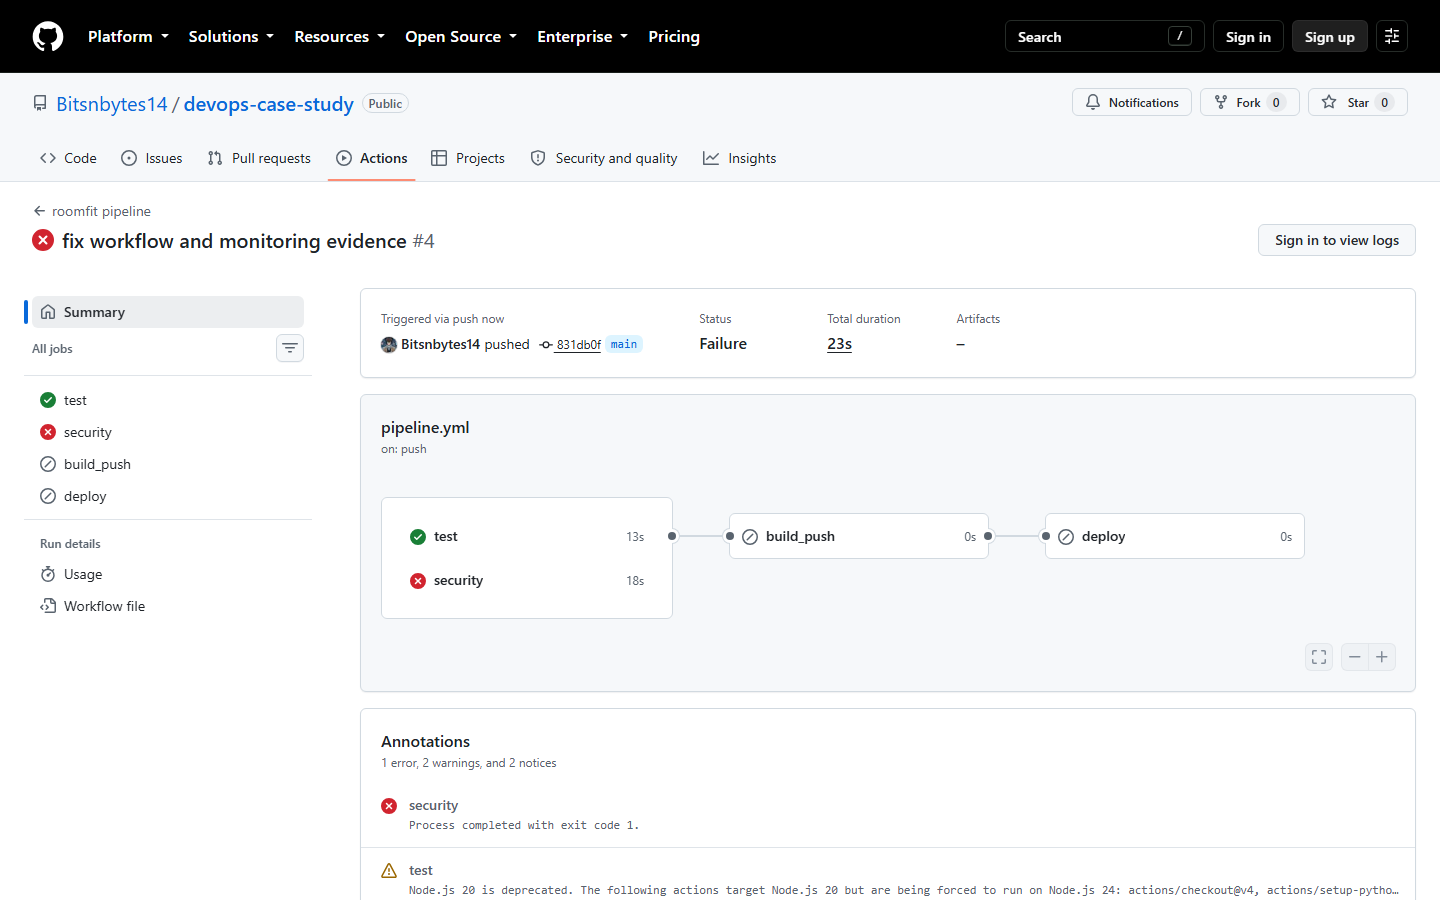
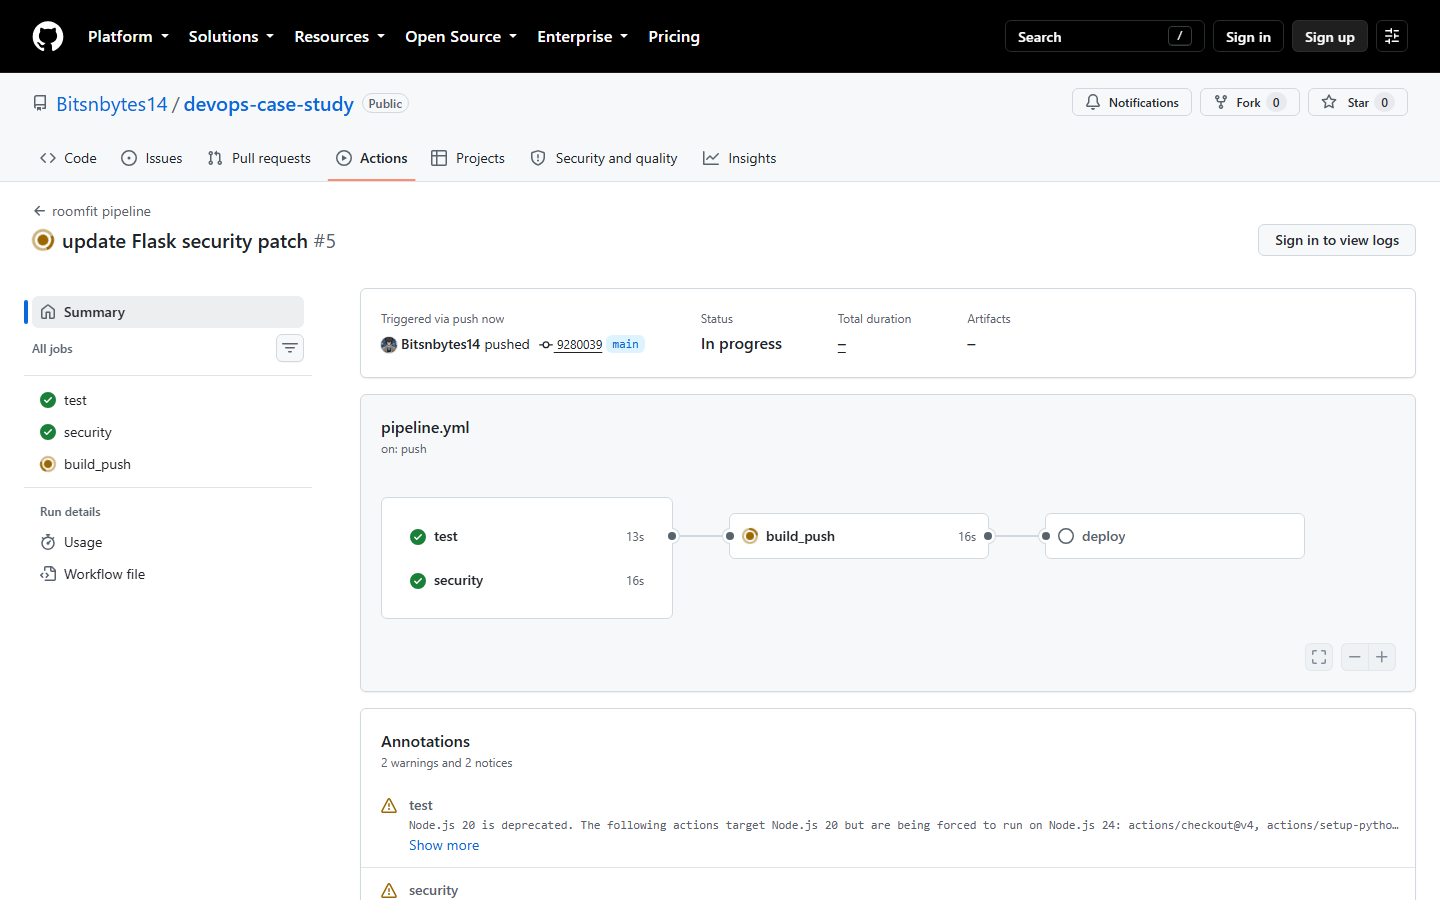
index real screenshot evidence

diff --git a/docs/screenshots/README.md b/docs/screenshots/README.md
@@ -1,12 +1,22 @@
-# Screenshot checklist
+# Screenshot evidence index
 
-Capture real terminal or browser evidence after opening Docker Desktop.
-
-1. Run `wsl -d Ubuntu -u root -- bash -lc "cd /mnt/d/devopscasestudy/devops-case-study/ansible && ansible-playbook -i inventory.ini playbook.yml"` twice. Capture the second recap showing `changed=0`.
-2. Run `wsl -d Ubuntu -u root -- bash -lc "systemctl status roomfit; curl http://127.0.0.1:5000/health"`. Capture the active service and health response.
-3. Run `docker images roomfit-api`, then `docker run` with port 5001. Capture the health and sample responses.
-4. Run `kubectl get pods -n roomfit` and capture the three Ready replicas.
-5. Run `scripts/rolling-update-demo.ps1` and capture the v1, v2, and final v1 health responses.
-6. Run `kubectl rollout history deployment/roomfit -n roomfit` and `kubectl rollout undo deployment/roomfit -n roomfit`.
-7. Open `http://127.0.0.1:30500/health` during v1, v2, and final v1. Open `http://127.0.0.1:30500/metrics` for the metrics page.
-8. Capture a green GitHub Actions run from the repository Actions page.
+| Image | What it shows | Task | Type |
+| --- | --- | --- | --- |
+| `github_actions_green_run.png` | Latest public Actions run page | Pipeline | Browser |
+| `github_actions_workflow_file.png` | Public workflow source page | Pipeline | Browser |
+| `grafana_dashboard_normal.png` | Live RoomFit dashboard during normal traffic | Monitoring | Browser |
+| `grafana_dashboard_chaos.png` | Live RoomFit dashboard during injected faults | Monitoring | Browser |
+| `prometheus_targets.png` | Live Prometheus target status | Monitoring | Browser |
+| `prometheus_alerts.png` | Live Prometheus alert rules | Monitoring | Browser |
+| `service_health_v1.png` | Kind service health reporting v1 | Kubernetes | Browser |
+| `service_health_v2.png` | Kind service health reporting v2 | Kubernetes | Browser |
+| `service_health_after_rollback.png` | Kind service health after rollback reporting v1 | Kubernetes | Browser |
+| `service_metrics.png` | Live Compose service metrics | Monitoring | Browser |
+| `term_ansible_first_run.png` | First Ansible run evidence | Ansible | Terminal render |
+| `term_ansible_second_run_idempotent.png` | Idempotent Ansible recap | Ansible | Terminal render |
+| `term_ansible_service_check.png` | Users, modes, service, and health check | Ansible | Terminal render |
+| `term_docker_images.png` | Docker image build evidence | Docker | Terminal render |
+| `term_k8s_pods_ready.png` | Three Ready Kubernetes replicas | Kubernetes | Terminal render |
+| `term_k8s_rolling_update.png` | Rolling Pod state evidence | Kubernetes | Terminal render |
+| `term_k8s_rollout_history.png` | Deployment revision history | Kubernetes | Terminal render |
+| `term_k8s_rollback.png` | Rollback and v1 health evidence | Kubernetes | Terminal render |

diff --git a/docs/evidence/SUMMARY.md b/docs/evidence/SUMMARY.md
@@ -12,6 +12,12 @@ The first polling file includes connection failures because `kubectl port-forwar
 
 Browser screenshots were not created. The requested real terminal evidence is present. Use the commands in the screenshot checklist to take browser or terminal captures locally.
 
+## Task 4 Monitoring
+
+Pass. Docker Compose started the API, Prometheus, and Grafana. Prometheus reported the RoomFit target as up. The normal load query recorded 2.23 requests per second. The fault test used FAULT_RATE 0.2 and recorded 155 successful requests and 45 failures. Prometheus measured a 22.28 percent error rate and the RoomFitErrorRateHigh alert entered pending state. Recovery recreated the API with FAULT_RATE 0 and the measured error rate returned to zero.
+
+Live browser images were captured for Grafana, Prometheus, service metrics, and Kubernetes health states. Terminal images are complete unedited evidence renders with a command header and source footer. The GitHub Actions images are public page captures. The latest failure found during this work was fixed by converting invalid workflow flow mappings and upgrading Flask from 3.1.0 to 3.1.3 after pip audit reported two known vulnerabilities.
+
 | Evidence file | Student screenshot command |
 | --- | --- |
 | `ansible_01_syntax_check.txt` | `ansible-playbook --syntax-check playbook.yml` |

diff --git a/README.md b/README.md
@@ -64,3 +64,5 @@ docs/         Case studies, slides, evidence
 ## Learning notes
 
 Hard constraints are checked before scoring. Health probes, replicas, least privilege, rolling updates, and rollback make delivery safer. Metrics make uptime, latency, errors, and allocation activity visible. Read the case study answers in `docs/RoomFit_DevOps_Case_Studies.docx`.
+
+Real verification records are in [docs/evidence](docs/evidence/) and the image evidence index is in [docs/screenshots](docs/screenshots/).
